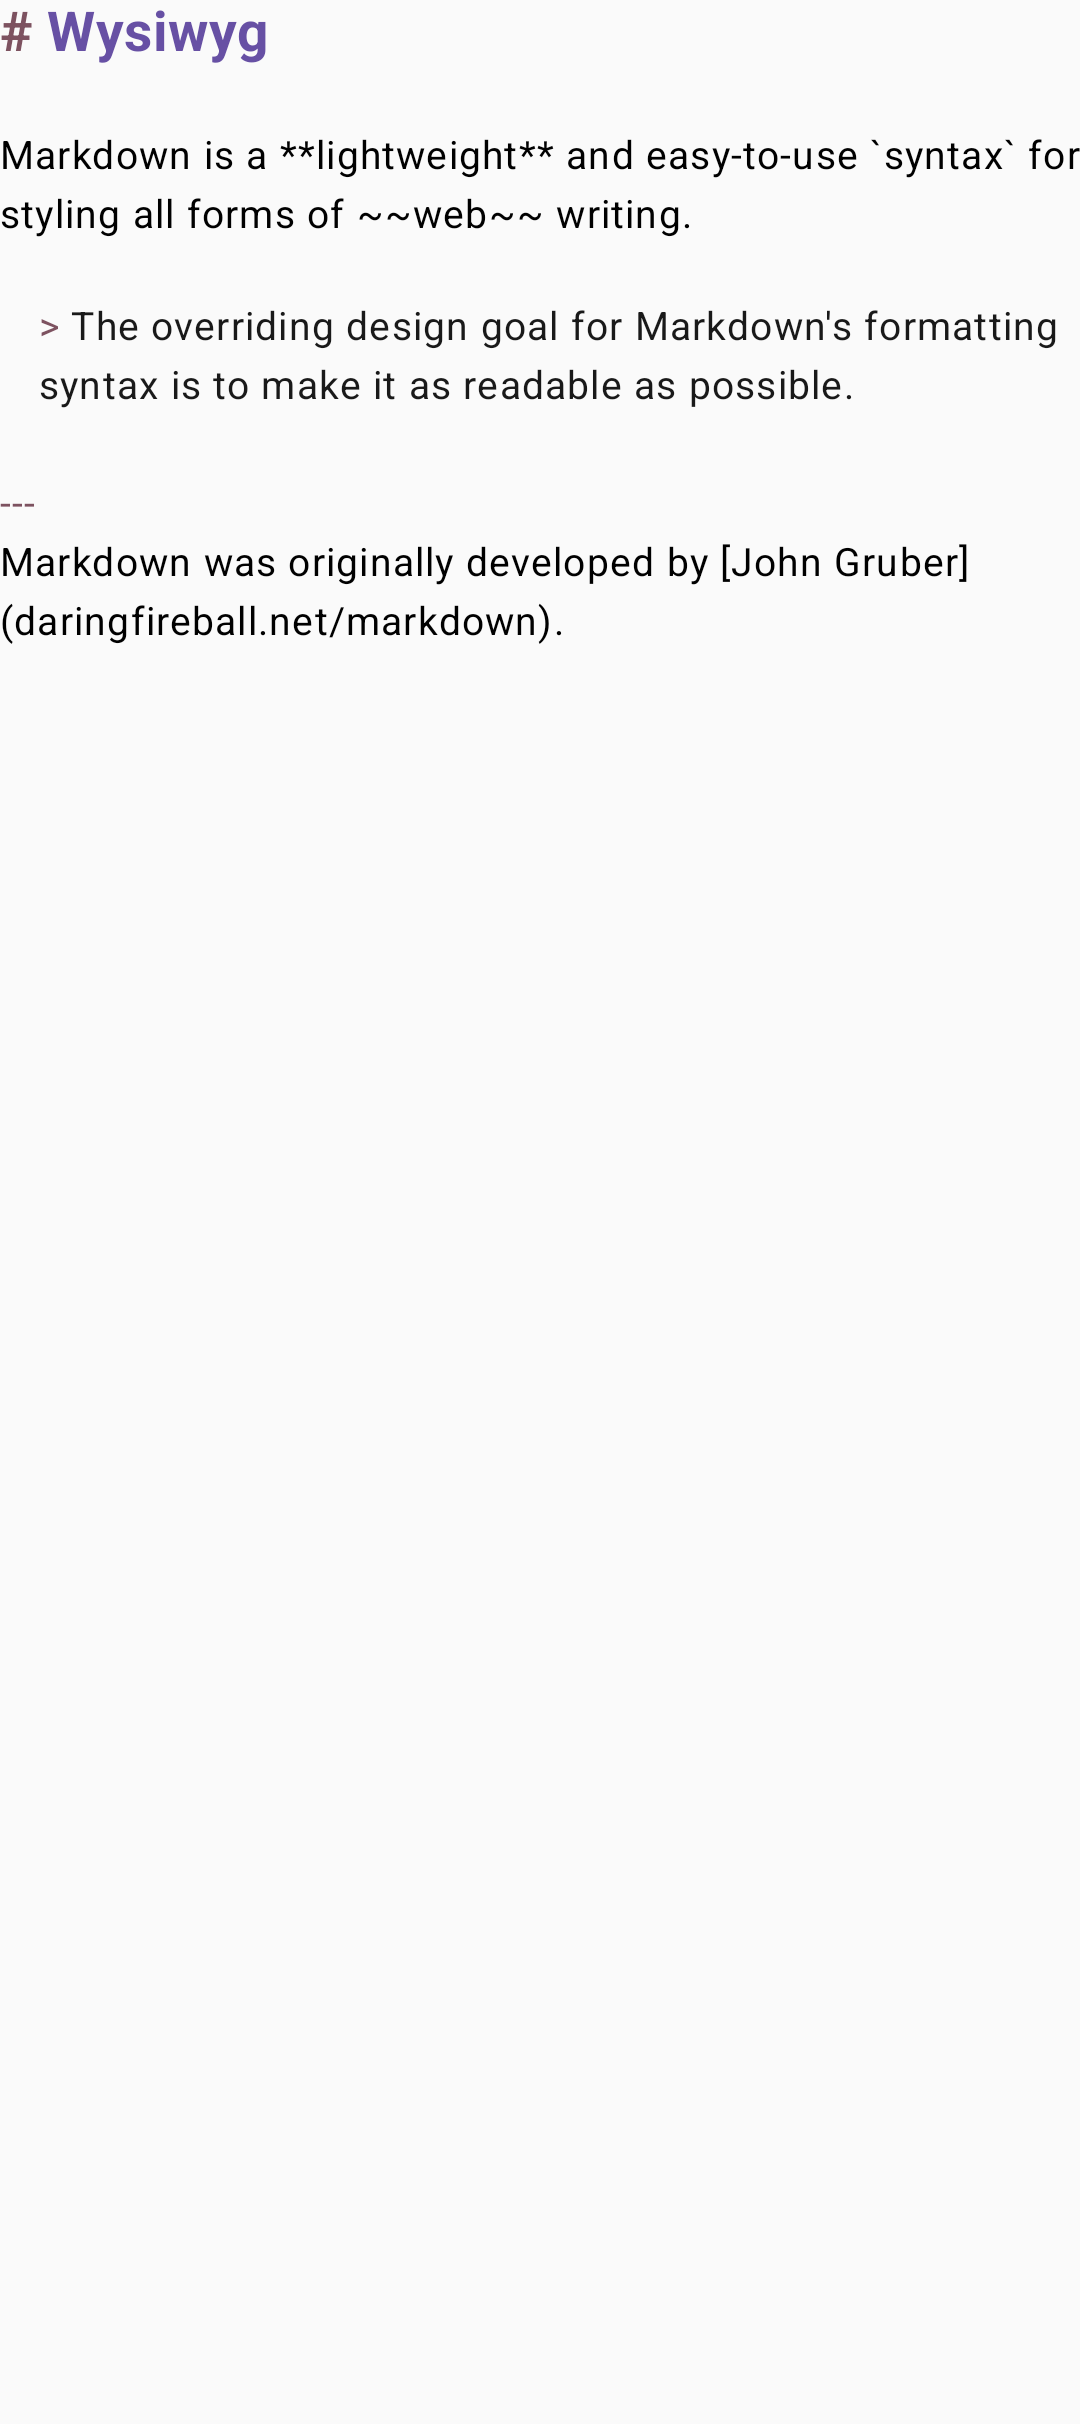
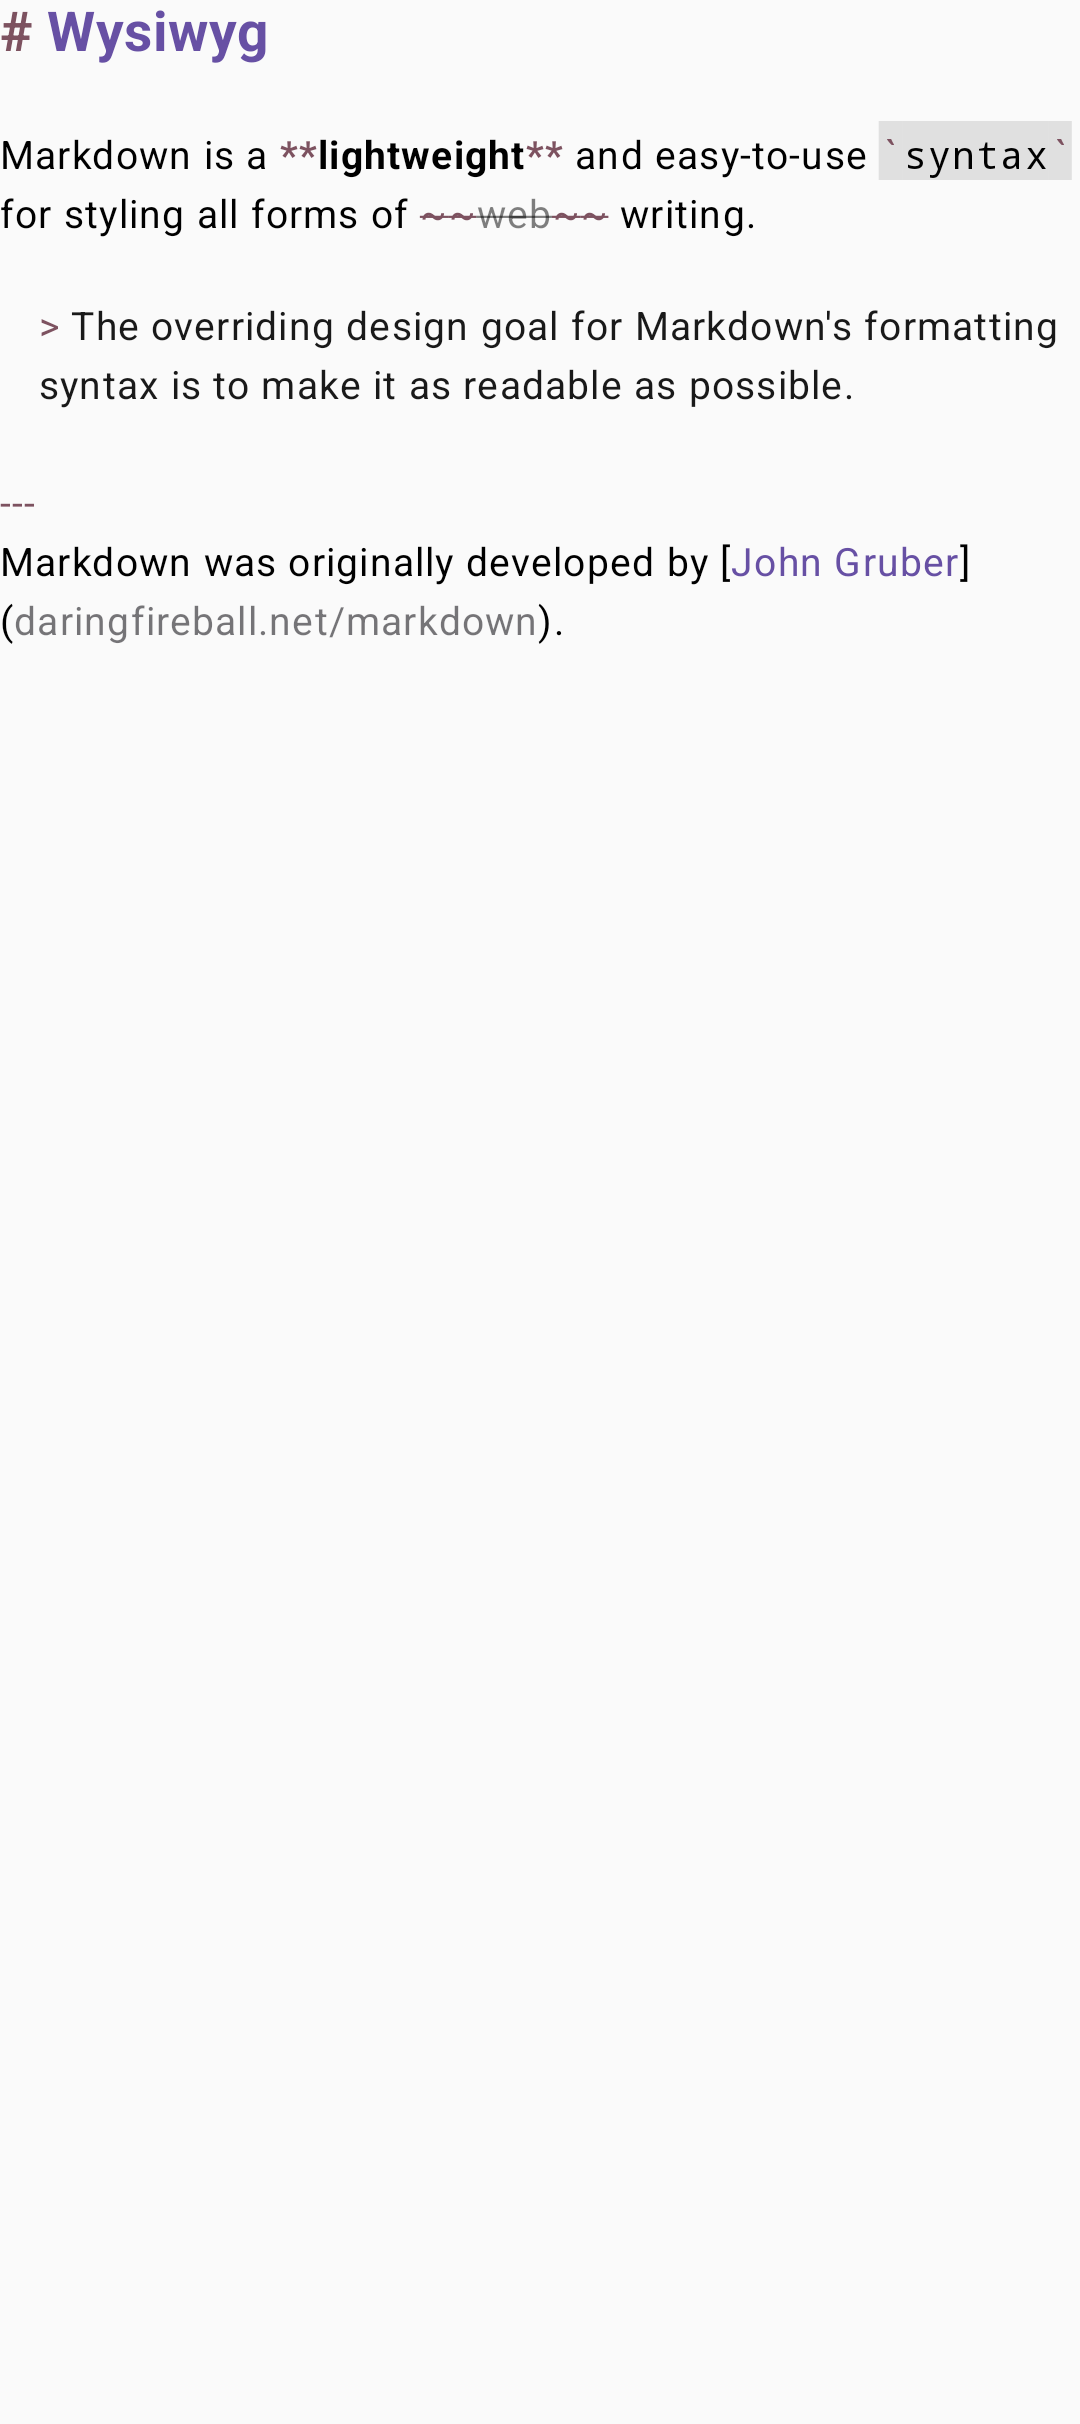
Implement inline markdown highlighting via tree-sitter-markdown-inline

diff --git a/wysiwyg-parser-treesitter/src/androidMain/kotlin/me/saket/wysiwyg/parser/treesitter/TreeSitterMarkdownParser.kt b/wysiwyg-parser-treesitter/src/androidMain/kotlin/me/saket/wysiwyg/parser/treesitter/TreeSitterMarkdownParser.kt
@@ -3,23 +3,31 @@ package me.saket.wysiwyg.parser.treesitter
 import io.github.treesitter.ktreesitter.Language
 import io.github.treesitter.ktreesitter.Parser
 import io.github.treesitter.ktreesitter.Query
+import io.github.treesitter.ktreesitter.Range
 import kotlinx.coroutines.Dispatchers
 import kotlinx.coroutines.flow.Flow
 import kotlinx.coroutines.flow.flow
 import kotlinx.coroutines.flow.flowOn
 import me.saket.wysiwyg.BlockQuoteBodySpanStyle
 import me.saket.wysiwyg.BlockQuoteParagraphLineSpanStyle
+import me.saket.wysiwyg.BoldSpanStyle
 import me.saket.wysiwyg.FencedCodeBlockSpanStyle
 import me.saket.wysiwyg.HeadingSpanStyle
+import me.saket.wysiwyg.InlineCodeSpanStyle
+import me.saket.wysiwyg.ItalicSpanStyle
+import me.saket.wysiwyg.LinkTextSpanStyle
+import me.saket.wysiwyg.LinkUrlSpanStyle
 import me.saket.wysiwyg.ListBlockSpanStyle
 import me.saket.wysiwyg.MarkdownSpan
 import me.saket.wysiwyg.MarkdownSpanTextRange
 import me.saket.wysiwyg.MarkerColorSpanStyle
+import me.saket.wysiwyg.StrikeThroughSpanStyle
 import me.saket.wysiwyg.ThematicBreakSpanStyle
 import me.saket.wysiwyg.parser.ChangeListSnapshot
 import me.saket.wysiwyg.parser.MarkdownParser
 import me.saket.wysiwyg.parser.MarkdownParser.ParseResult
 import me.saket.wysiwyg.parser.treesitter.grammar.TreeSitterMarkdown
+import me.saket.wysiwyg.parser.treesitter.grammar.TreeSitterMarkdownInline
 import kotlin.contracts.ExperimentalContracts
 import kotlin.contracts.contract
 
@@ -29,10 +37,13 @@ import kotlin.contracts.contract
  * Uses tree-sitter queries rather than a manual tree walk to minimize JNI boundary crossings:
  * the C engine pre-filters matching nodes and hands Kotlin one batch per capture.
  *
+ * Markdown is parsed in two passes, matching the CommonMark spec: [blockParser] establishes
+ * block structure (headings, lists, block quotes, fenced code), and its `@inline` captures
+ * identify the byte ranges of actual inline content (with block markers stripped). Those
+ * ranges are fed to [inlineParser] via [Parser.includedRanges], which then parses emphasis,
+ * strong, links, code spans, and strikethroughs.
+ *
  * TODOs:
- * - **Inline grammar.** Currently emits only block-level spans (headings, code fences, block
- *   quotes, lists, thematic breaks). Emphasis, links, code spans, and strikethroughs need the
- *   inline grammar (`tree-sitter-markdown-inline`) wired via [Parser.includedRanges].
  * - **Incremental parsing.** The parser currently re-parses and re-walks the entire document
  *   on every call, ignoring [ChangeListSnapshot]. A real incremental pipeline would apply
  *   edits via `tree.edit(InputEdit)`, re-parse with `oldTree`, then use
@@ -42,16 +53,21 @@ import kotlin.contracts.contract
  *   we add a conversion layer.
  */
 class TreeSitterMarkdownParser : MarkdownParser {
-  private val language = Language(TreeSitterMarkdown.language())
-  private val parser = Parser(language)
-  private val query = Query(language, source = BlockQuery)
+  private val blockLanguage = Language(TreeSitterMarkdown.language())
+  private val blockParser = Parser(blockLanguage)
+  private val blockQuery = Query(blockLanguage, source = BlockQuery)
+
+  private val inlineLanguage = Language(TreeSitterMarkdownInline.language())
+  private val inlineParser = Parser(inlineLanguage)
+  private val inlineQuery = Query(inlineLanguage, source = InlineQuery)
 
   override fun parse(text: String, changes: ChangeListSnapshot): Flow<ParseResult> {
     return flow {
-      val tree = parser.parse(text)
       val spans = mutableListOf<MarkdownSpan>()
+      val inlineRanges = mutableListOf<Range>()
 
-      query.matches(tree.rootNode).forEach { match ->
+      val blockTree = blockParser.parse(text)
+      blockQuery.matches(blockTree.rootNode).forEach { match ->
         match.captures.fastForEach { capture ->
           val node = capture.node
           val range = MarkdownSpanTextRange(
@@ -89,6 +105,40 @@ class TreeSitterMarkdownParser : MarkdownParser {
               spans += MarkdownSpan(ThematicBreakSpanStyle, range)
               spans += MarkdownSpan(MarkerColorSpanStyle, range)
             }
+            "inline" -> {
+              // The block grammar's `inline` alias marks regions of raw inline content
+              // (paragraph/heading text, with block markers already stripped). Feed these
+              // byte ranges to the inline parser via includedRanges below.
+              inlineRanges += Range(
+                startPoint = node.startPoint,
+                endPoint = node.endPoint,
+                startByte = node.startByte,
+                endByte = node.endByte,
+              )
+            }
+          }
+        }
+      }
+
+      if (inlineRanges.isNotEmpty()) {
+        inlineParser.includedRanges = inlineRanges
+        val inlineTree = inlineParser.parse(text)
+        inlineQuery.matches(inlineTree.rootNode).forEach { match ->
+          match.captures.fastForEach { capture ->
+            val node = capture.node
+            val range = MarkdownSpanTextRange(
+              startIndex = node.startByte.toInt(),
+              endIndexExclusive = node.endByte.toInt(),
+            )
+            when (capture.name) {
+              "emphasis" -> spans += MarkdownSpan(ItalicSpanStyle, range)
+              "strong" -> spans += MarkdownSpan(BoldSpanStyle, range)
+              "strikethrough" -> spans += MarkdownSpan(StrikeThroughSpanStyle, range)
+              "code_span" -> spans += MarkdownSpan(InlineCodeSpanStyle, range)
+              "marker" -> spans += MarkdownSpan(MarkerColorSpanStyle, range)
+              "link.text" -> spans += MarkdownSpan(LinkTextSpanStyle, range)
+              "link.url" -> spans += MarkdownSpan(LinkUrlSpanStyle, range)
+            }
           }
         }
       }
@@ -106,6 +156,9 @@ class TreeSitterMarkdownParser : MarkdownParser {
      * so the level is encoded in the pattern's own capture name (`@heading.1` ... `@heading.6`).
      * [parse] can then build a [HeadingSpanStyle] without a second JNI round-trip to inspect the
      * marker node's type string.
+     *
+     * The `@inline` capture isn't rendered directly — [parse] collects those byte ranges and
+     * hands them to the inline parser via [Parser.includedRanges] to drive the second phase.
      *
      * Capture names are the dispatch key in the `when` inside [parse] — edit them both together.
      */
@@ -128,6 +181,31 @@ class TreeSitterMarkdownParser : MarkdownParser {
          (list_marker_plus) (list_marker_star)] @list.item.marker)
 
       (thematic_break) @thematic_break
+
+      (inline) @inline
+    """.trimIndent()
+
+    /**
+     * Tree-sitter query matching every inline node we render. Runs against the inline parser's
+     * tree, which only sees the byte ranges captured as `@inline` by [BlockQuery] (scoped via
+     * [Parser.includedRanges]). So `(emphasis)` here matches `*foo*` inside a paragraph without
+     * tripping on a `*` that's a list marker at block level — the inline parser literally
+     * can't see list markers.
+     *
+     * Capture names are the dispatch key in the `when` inside [parse] — edit them both together.
+     */
+    private val InlineQuery = """
+      (emphasis) @emphasis
+      (strong_emphasis) @strong
+      (strikethrough) @strikethrough
+      (code_span) @code_span
+
+      (emphasis_delimiter) @marker
+      (code_span_delimiter) @marker
+
+      (inline_link
+        (link_text) @link.text
+        (link_destination) @link.url)
     """.trimIndent()
   }
 }

diff --git a/wysiwyg-parser-treesitter/src/androidMain/kotlin/me/saket/wysiwyg/parser/treesitter/grammar/TreeSitterMarkdownInline.kt b/wysiwyg-parser-treesitter/src/androidMain/kotlin/me/saket/wysiwyg/parser/treesitter/grammar/TreeSitterMarkdownInline.kt
@@ -1,0 +1,27 @@
+package me.saket.wysiwyg.parser.treesitter.grammar
+
+import dalvik.annotation.optimization.CriticalNative
+
+/**
+ * Hand-written mirror of the plugin-generated [TreeSitterMarkdown] wrapper for the inline
+ * grammar. The ktreesitter-plugin's Gradle DSL only supports one grammar per module, so
+ * the inline grammar's ~20 lines of glue (this file) and ~10 lines of JNI (`binding_inline.c`)
+ * are written by hand.
+ *
+ * Shares the same native library as [TreeSitterMarkdown] — `CMakeLists.txt` links both
+ * grammars into `libktreesitter-markdown.so`. No second `System.loadLibrary` call is needed.
+ */
+@Suppress("FunctionName")
+object TreeSitterMarkdownInline {
+  init {
+    // Same .so as TreeSitterMarkdown; System.loadLibrary is idempotent per ClassLoader, so
+    // calling it from both objects is safe and lets this object be used standalone.
+    System.loadLibrary("ktreesitter-markdown")
+  }
+
+  fun language(): Any = tree_sitter_markdown_inline()
+
+  @JvmStatic
+  @CriticalNative
+  private external fun tree_sitter_markdown_inline(): Long
+}

diff --git a/wysiwyg-parser-treesitter/jni/binding_inline.c b/wysiwyg-parser-treesitter/jni/binding_inline.c
@@ -1,0 +1,17 @@
+// Hand-written counterpart to the plugin-generated binding.c. The ktreesitter-plugin's
+// Gradle DSL only supports one grammar per module, so we mirror its output for the inline
+// grammar. Kept in sync with TreeSitterMarkdownInline.kt — the JNI export name must match
+// the Kotlin package + class + method name exactly (underscores encoded as _1).
+
+#include <jni.h>
+#include <tree-sitter-markdown-inline.h>
+
+#ifndef __ANDROID__
+#define NATIVE_FUNCTION(name) JNIEXPORT jlong JNICALL name(JNIEnv * _env, jclass _class)
+#else
+#define NATIVE_FUNCTION(name) JNIEXPORT jlong JNICALL name()
+#endif
+
+NATIVE_FUNCTION(Java_me_saket_wysiwyg_parser_treesitter_grammar_TreeSitterMarkdownInline_tree_1sitter_1markdown_1inline) {
+    return (jlong)tree_sitter_markdown_inline();
+}
